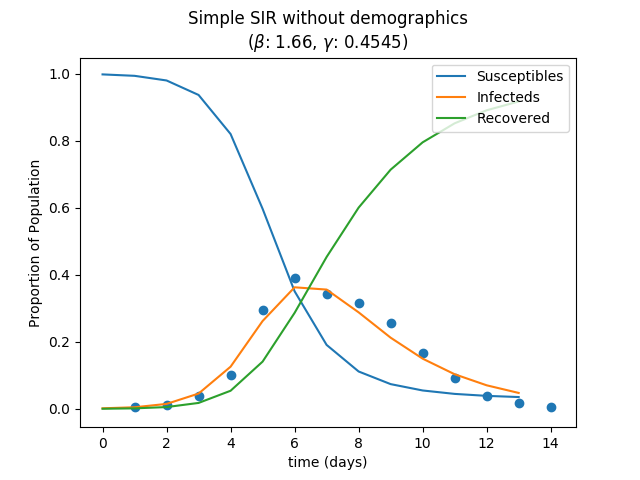
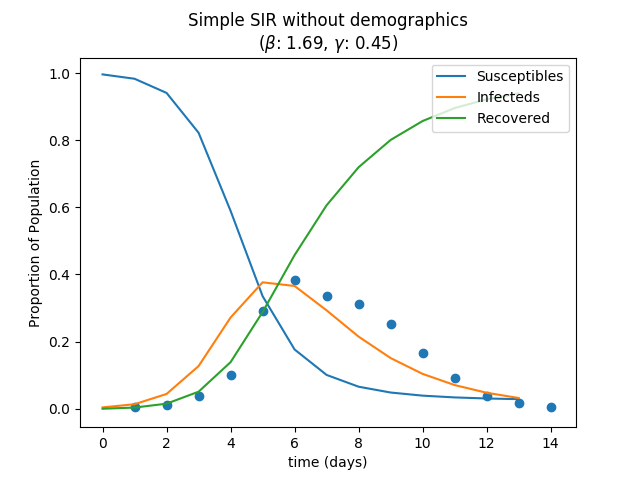
Exposed class attempt with boarding school data

diff --git a/src/closed_sir.py b/src/closed_sir.py
@@ -2,93 +2,48 @@
 import matplotlib.pyplot as plt
 import numpy as np
 from scipy.integrate import odeint
-from sympy import *
+from scipy.optimize import least_squares, curve_fit
 import pandas as pd
 
-####################
-# Closed SIR Model #
-####################
+###################################################
+# Closed SIR Model Fitted to Boarding School data #
+###################################################
 
-# Setting up the time parameters
+pop_size = 763
 
-# time zero
-t0 = 0
-# end time
-tn = 14
-# time step
-t_step = 1
+data = pd.read_csv("./data/boarding-school.csv")
 
-time_steps = range(t0, tn, t_step)
+i_data = np.array(data['cases']/pop_size, dtype=float)
+t_data = np.array(data['day'], dtype=float)
 
-# Parameters for the model
-# Instantaneous, constant params
+N = 1.0
+I0 = i_data[0]
+S0 = N - I0
+R0 = 0.0
 
-# Transmission rate
-beta = 1.66
-# Recovery rate
-gamma = 0.4545
+def closed_sir (y, x, beta, gamma):
+    S = -beta * y[0] * y[1]
+    I = beta * y[0] * y[1] - gamma * y[1]
+    R = gamma * y[1]
+    return S, I, R
 
-# State variables - initial
+def fit_odeint(x, beta, gamma):
+    return odeint(closed_sir, (S0, I0, R0), x, args=(beta, gamma))[:,1]
 
-# Proportion of susceptibles
-s0 = 752/753
-# Proportion of infecteds
-i0 = 1/753
-# Proportion of recovereds
-r0 = 0.0
+popt, pcov = curve_fit(fit_odeint, t_data, i_data)
 
-init_params = (s0, i0, r0)
+beta = popt[0]
+gamma = popt[1]
 
-def closed_sir (params, time):
-    res = np.zeros((3))
-    res[0] = -beta * params[0] * params[1]
-    res[1] = beta * params[0] * params[1] - gamma * params[1]
-    res[2] = gamma * params[1]
-    return res
-
-# Use scipy package to integrate solutions
-sol = odeint(closed_sir, init_params, time_steps)
+sol = odeint(closed_sir, (S0, I0, R0), t_data, args=(beta, gamma))
 
 # Plot the results in one figure
 plt.plot(sol)
-data = pd.read_csv("data/boarding-school.csv")
-plt.scatter(data['day'], data['cases']/753)
-plt.title("Simple SIR without demographics\n" +r"($\beta$: {}, $\gamma$: {})".format(beta, gamma))
+plt.scatter(t_data, i_data)
+plt.title("Simple SIR without demographics\n" +r"($\beta$: {}, $\gamma$: {})".format(round(beta, 2), round(gamma, 2)))
 plt.xlabel("time (days)")
 plt.ylabel("Proportion of Population")
-plt.legend(("Susceptibles", "Infecteds", "Recovered"),
+plt.legend(("Susceptibles",  "Infecteds", "Recovered"),
            loc = "upper right")
 plt.savefig("figures/closed-sir.png")
-
-##########################################
-# Multiple values of beta and gamma plot #
-##########################################
-
-# Transmission rate
-beta_values = [x for x in range(1, 5)]
-# Recovery rate
-gamma_values = [0.3, 0.1, 0.02, 0.03]
-
-# time zero
-t0 = 0
-# end time
-tn = 25
-# time step
-t_step = 1
-
-time_steps = range(t0, tn, t_step)
-
-widths = [5] * 4
-heights = [5] * 4
-gs_kw = dict(width_ratios=widths, height_ratios=heights)
-
-fig, axs = plt.subplots(4, 4, gridspec_kw=gs_kw)
-fig.subplots_adjust(wspace = 0.7, hspace = 0.7)
-fig.suptitle("SIR over multiple values")
-for beta in beta_values:
-    for gamma in gamma_values:
-        sol = odeint(closed_sir, init_params, time_steps)
-        axs[beta_values.index(beta), gamma_values.index(gamma)].plot(sol)
-        axs[beta_values.index(beta), gamma_values.index(gamma)].set_title(r'$\beta$:{} $\gamma$:{}'.format(beta, gamma))
-plt.figure(num = 2, figsize=(9,6))
-#plt.savefig("mutliple-plots.png", dpi = 300)
+plt.clf()

diff --git a/src/exposed_boarding-school.py b/src/exposed_boarding-school.py
@@ -1,0 +1,53 @@
+#!/usr/bin/python3
+import matplotlib.pyplot as plt
+import numpy as np
+from scipy.integrate import odeint
+from scipy.optimize import least_squares, curve_fit
+import pandas as pd
+
+################################################################################
+# Closed SEIR Model for Boarding School Data                                   #
+################################################################################
+
+pop_size = 763
+
+data = pd.read_csv("./data/boarding-school.csv")
+
+i_data = np.array(data['cases']/pop_size, dtype=float)
+t_data = np.array(data['day'], dtype=float)
+
+N = 1.0
+I0 = i_data[0]
+S0 = N - I0
+E0 = I0
+R0 = 0.0
+
+def closed_sir (y, x, beta, gamma, sigma):
+    S = -beta * y[0] * y[2]
+    E = beta * y[0] * y[2] - sigma * y[1]
+    I = sigma * y[1] - gamma * y[2]
+    R = gamma * y[2]
+    return S, E, I, R
+
+def fit_odeint(x, beta, gamma, sigma):
+    return odeint(closed_sir, (S0, E0, I0, R0), x, args=(beta, gamma, sigma))[:,2]
+
+popt, pcov = curve_fit(fit_odeint, t_data, i_data)
+
+beta = popt[0]
+gamma = popt[1]
+sigma = popt[2]
+
+# Use scipy package to integrate solutions
+sol = odeint(closed_sir, (S0, E0, I0, R0), t_data, args=(beta, gamma, sigma))
+
+# Plot the results in one figure
+plt.plot(sol)
+plt.scatter(t_data, i_data)
+plt.title("Simple SIR without demographics\n" +r"($\beta$: {}, $\gamma$: {})".format(round(beta, 2), round(gamma, 2)))
+plt.xlabel("time (days)")
+plt.ylabel("Proportion of Population")
+plt.legend(("Susceptibles", "Exposed", "Infecteds", "Recovered"),
+           loc = "upper right")
+plt.savefig("figures/exposed-sir.png")
+plt.clf()

diff --git a/notebook/2019-09-26-lab-meeting.md b/notebook/2019-09-26-lab-meeting.md
@@ -1,0 +1,21 @@
+# 09-26-2019 - Lab Meeting
+
+You could use an extra compartment (exposed) when using the boarding school data.
+
+Google nGrams
+
+## Including Vaccination in epi models
+
+### Imperfect vaccines
+
+Primary vaccine failure - no protection 
+Secondary - protection lost over time (some threshold)
+Leaky - partial protection (probability that infection takes even with vaccination)
+- Infectious dose threshold
+
+## SIR with demographics to same model with different vaccination status
+
+
+
+
+
